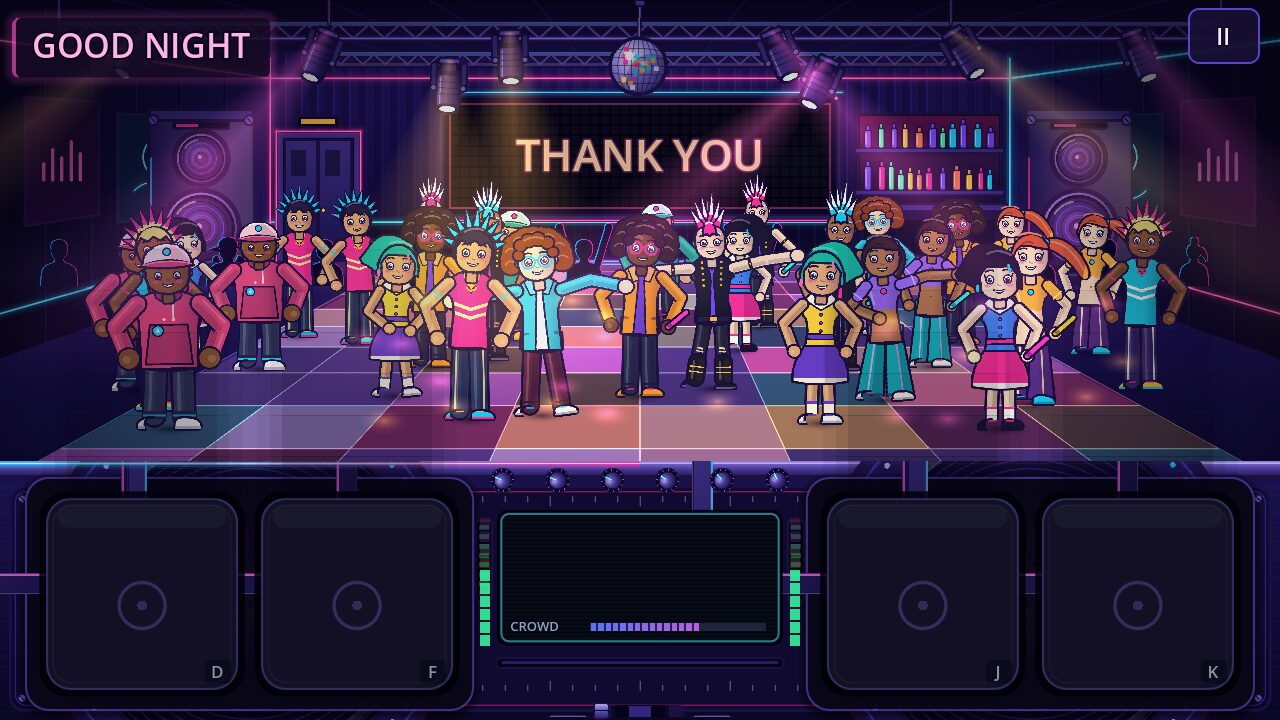
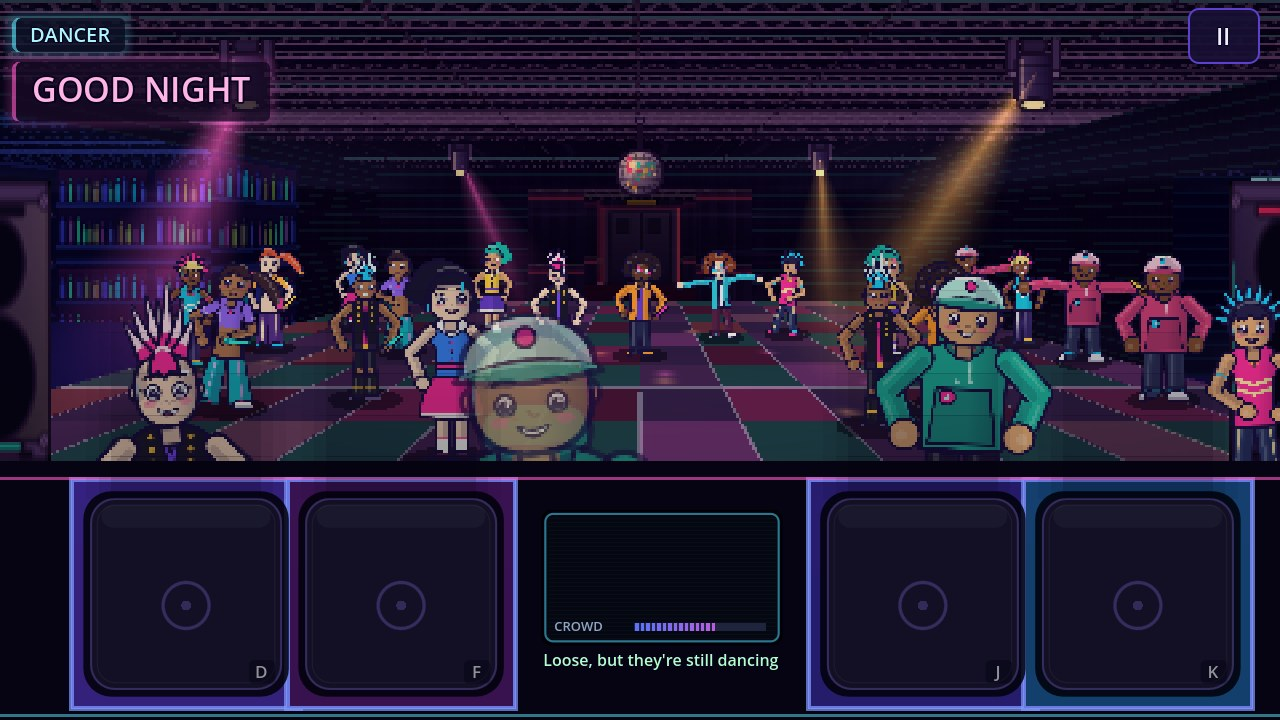
Story Campaign 2.5D, WP6 polish: waypoint facings, deeper sector visibility, LED word layout, cheaper FX and post-process, Night One screenshots, progress log

diff --git a/docs/STORY_25D_PLAN.md b/docs/STORY_25D_PLAN.md
@@ -356,3 +356,23 @@ WP6 Night One journey:
 - Settings: Story camera motion (full / reduced / none: none cuts to the end of a move half way through) and Story internal resolution (360p / 270p / 180p, `Session.story_lines`; `RW_STORY_LINES` still overrides); reduced effects imply at least reduced motion
   (`Session.effective_story_motion`). `RW_STORY_MOTION=0..2` for screenshots.
 - Tests: `test_story_crowd_world`, `test_story_fx_world`, `test_story_night_one_journey` (journey under perfect, none, sloppy seed 2 at 30, 60 and variable steps; camera inside a room at every bar; no dense-run warning on load).
+
+Screenshots (docs/shots/story, regenerated for Night One: 01 to 27 and the new `j01` to `j18` journey shots, JPEG; chapters 2 to 5 untouched): looked at by eye. Fixed on the way: the camera on the stage faced the back wall (waypoint `stage` now yaw 180, facing
+the floor), the DJ in the booth saw no crowd (the visible-sector walk stopped two portals out, the floor is three away: now four), the good night ended facing the LED wall (new waypoint `stage_edge`, facing the floor) and the lost night faced the street door
+(`door` now faces the club), the ending words on the LED wall were cut by the wall segments (the wall texture is 48 x 32 and the words sit in its first 32 columns), dancers passing the eye filled the screen (fade now between 1.0 and 1.8 m). What is still plain
+and is the polish session's to improve: the corridor and the cubicles are dark and bare (no toilet sign, no cistern or bowl sprite, the sick beat is a head-down view of a tiled wall), the stage woofers frame the booth view heavily, the entrance has no door sprite,
+the near dancers' faces are large when they pass, the LED pattern is chunky at 48 x 32.
+
+Frame time, final (same profile as above; this window had another Godot process using about 70 percent of a core, so absolute numbers run about 1 ms high; the WP4 commit measured 12.0 ms in a quiet window and 13.0 in this one): WP4 13.0, WP5 13.1 to 13.9,
+final 14.4 mean, p95 15.0 to 16.7 at 270 lines (180 and 360 lines are the same: the cost is CPU). The final is higher than WP4 mainly because the authored journey puts the camera in the booth at bars 105 to 113, which sees the whole floor crowd (about 25 dancers on screen instead
+of about 13); the FX update costs about 0.7 ms, the post-process 0.2 ms (and it is off while nothing needs it). So the plan's 12 ms average is not met at the busiest booth view on this laptop (about 13.5 in a quiet window); the next 1.5 ms would come from caching the static deck layer
+and the pad boxes (about 1.8 ms together) or baking the dancers to sprite sheets (the plan's stretch). 95th percentile stays under 20 ms.
+
+For the next agent (WP7 to WP8):
+- A new chapter needs `content/story/maps/<chapter>.json` (map conventions in 13.1 and above), its actors without design-space x and depth (the map's homes place them), `spots` (door with `slots`, circle, riser, side_l, side_r), `silhouettes`, waypoints with a
+  yaw that faces what the player should see, and textures baked by `bake_tiles.gd` (add a `_<chapter>()` recipe dictionary and the `textures` ids in `tiles.py`). Chapter JSON journeys use the same dict actions with `after_bars`; endings take `journey`.
+- The 2D `StoryCrowd` design-space path stays for chapters without a map; `StoryStage.attach_world` is what turns on world mode, and `RW_STORY_2D` no longer exists. `StoryLight` and `StoryWorldFx` look for `fixture` and `woofer` things and the `dance_floor` flag on a sector, and an
+  LED wall by the map texture name `wall_led`; name the equivalents the same way or extend `StoryWorldFx.build`.
+- Sectors must be convex, and the crowd walks `StoryMap.route`; keep homes at least a metre from every waypoint (tested) and spots inside their sectors (validated).
+- `tools/test.sh` takes a few minutes; a mid-run edit of a content file can produce failures that do not reproduce (it happened once): rerun before debugging.
+- The capture script is slow (about two minutes a shot to a late bar); four `capture.sh` runs in parallel with different `RW_SHOTS` filters work on four cores. Do not use `pkill -f capture.sh` from a command that contains that string.
